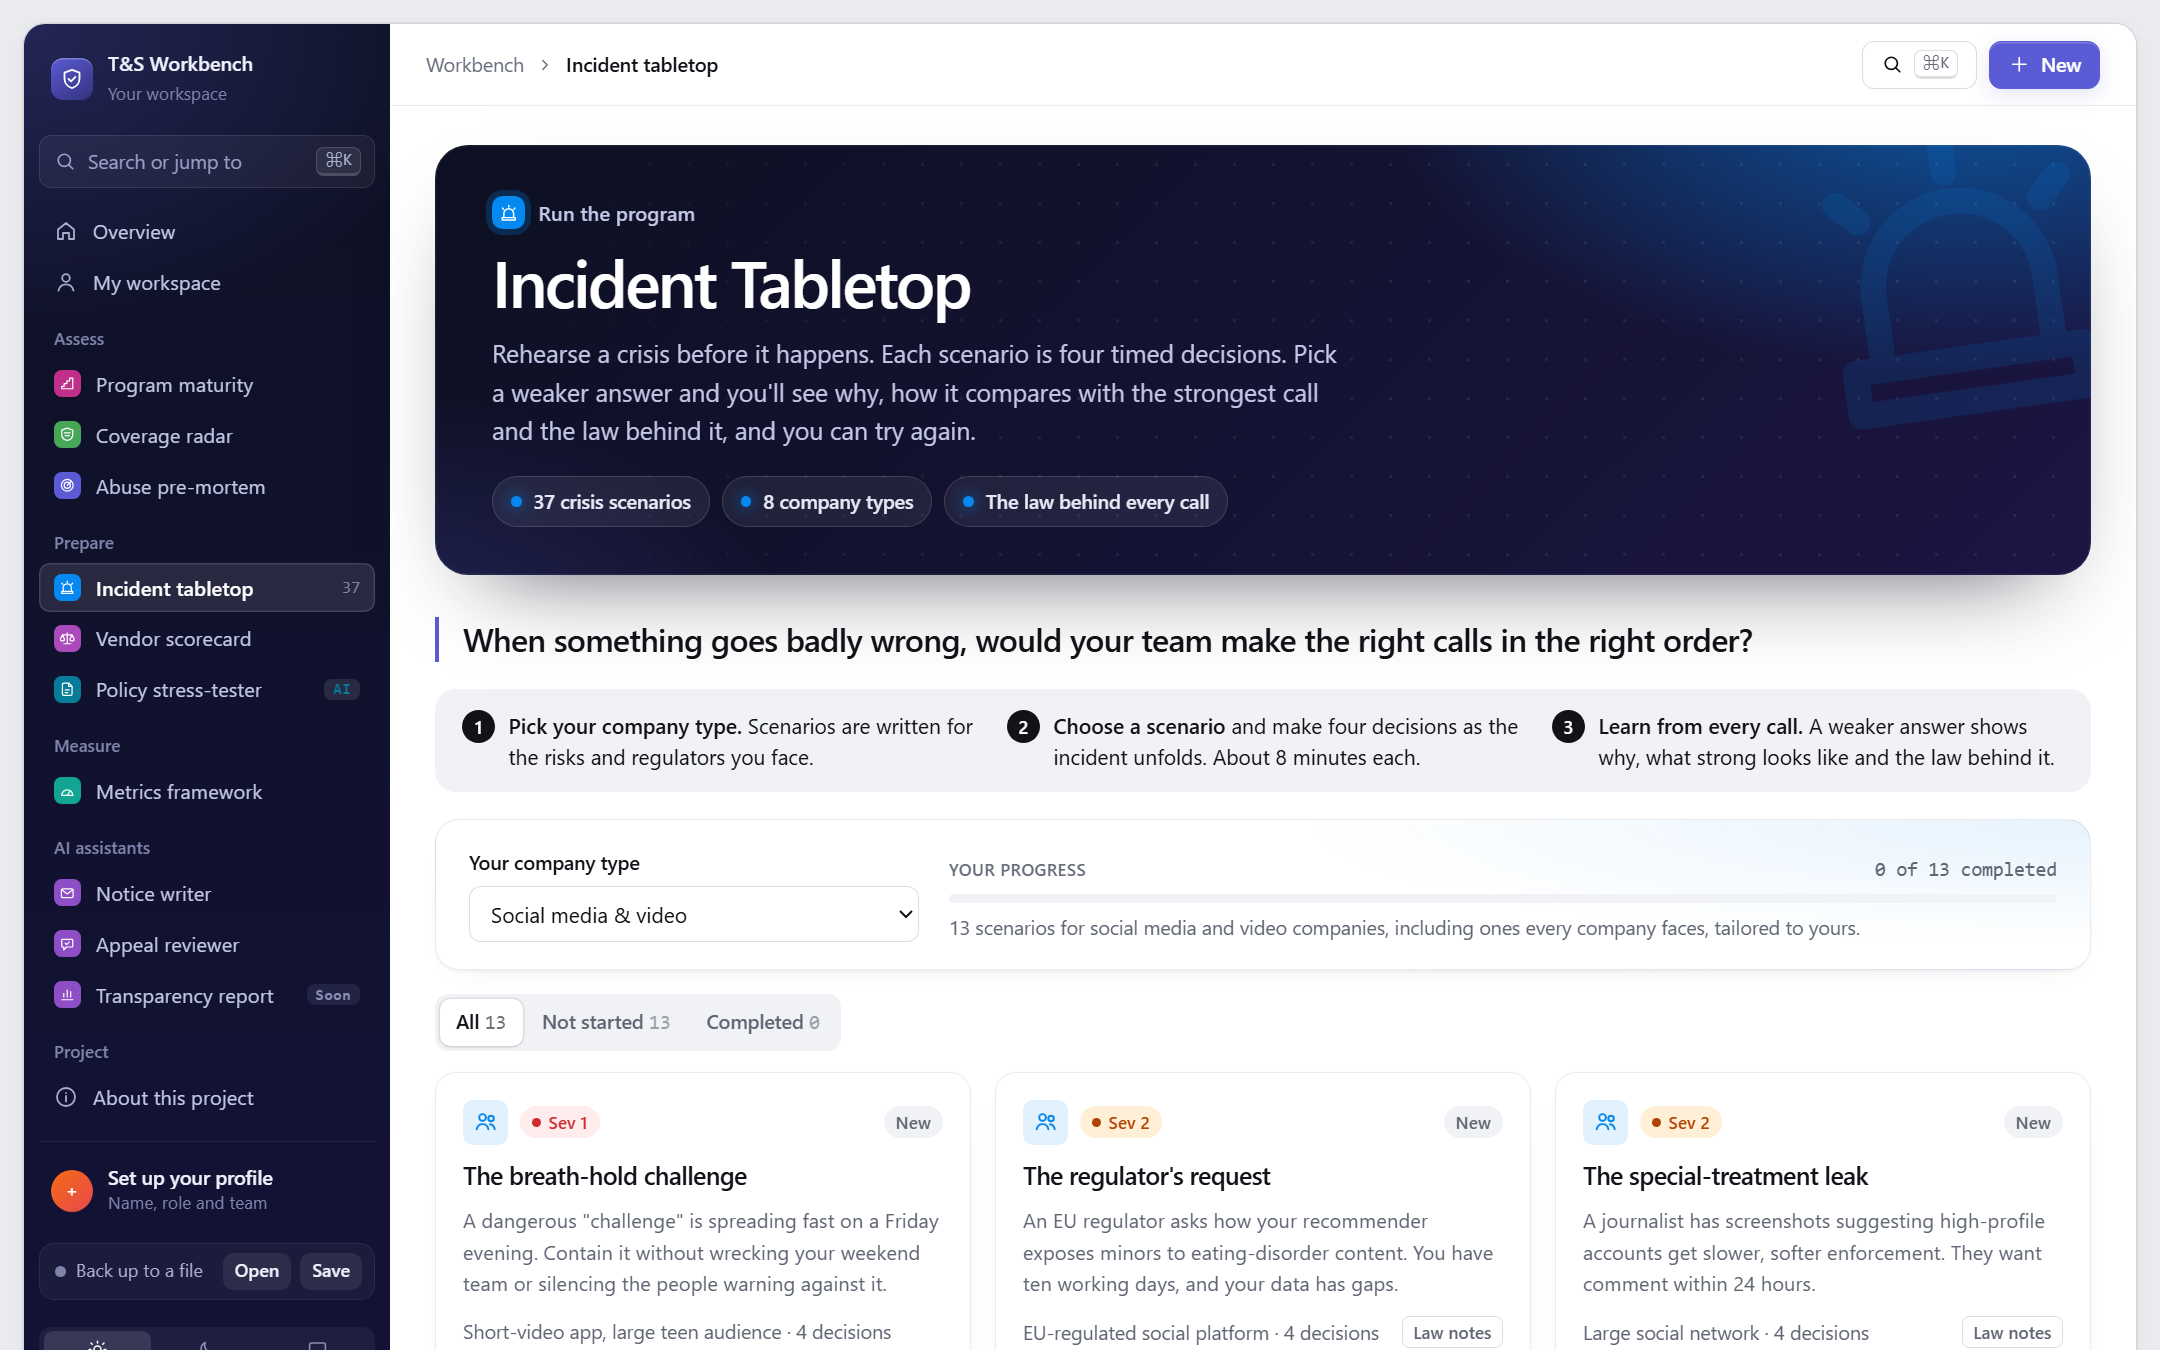
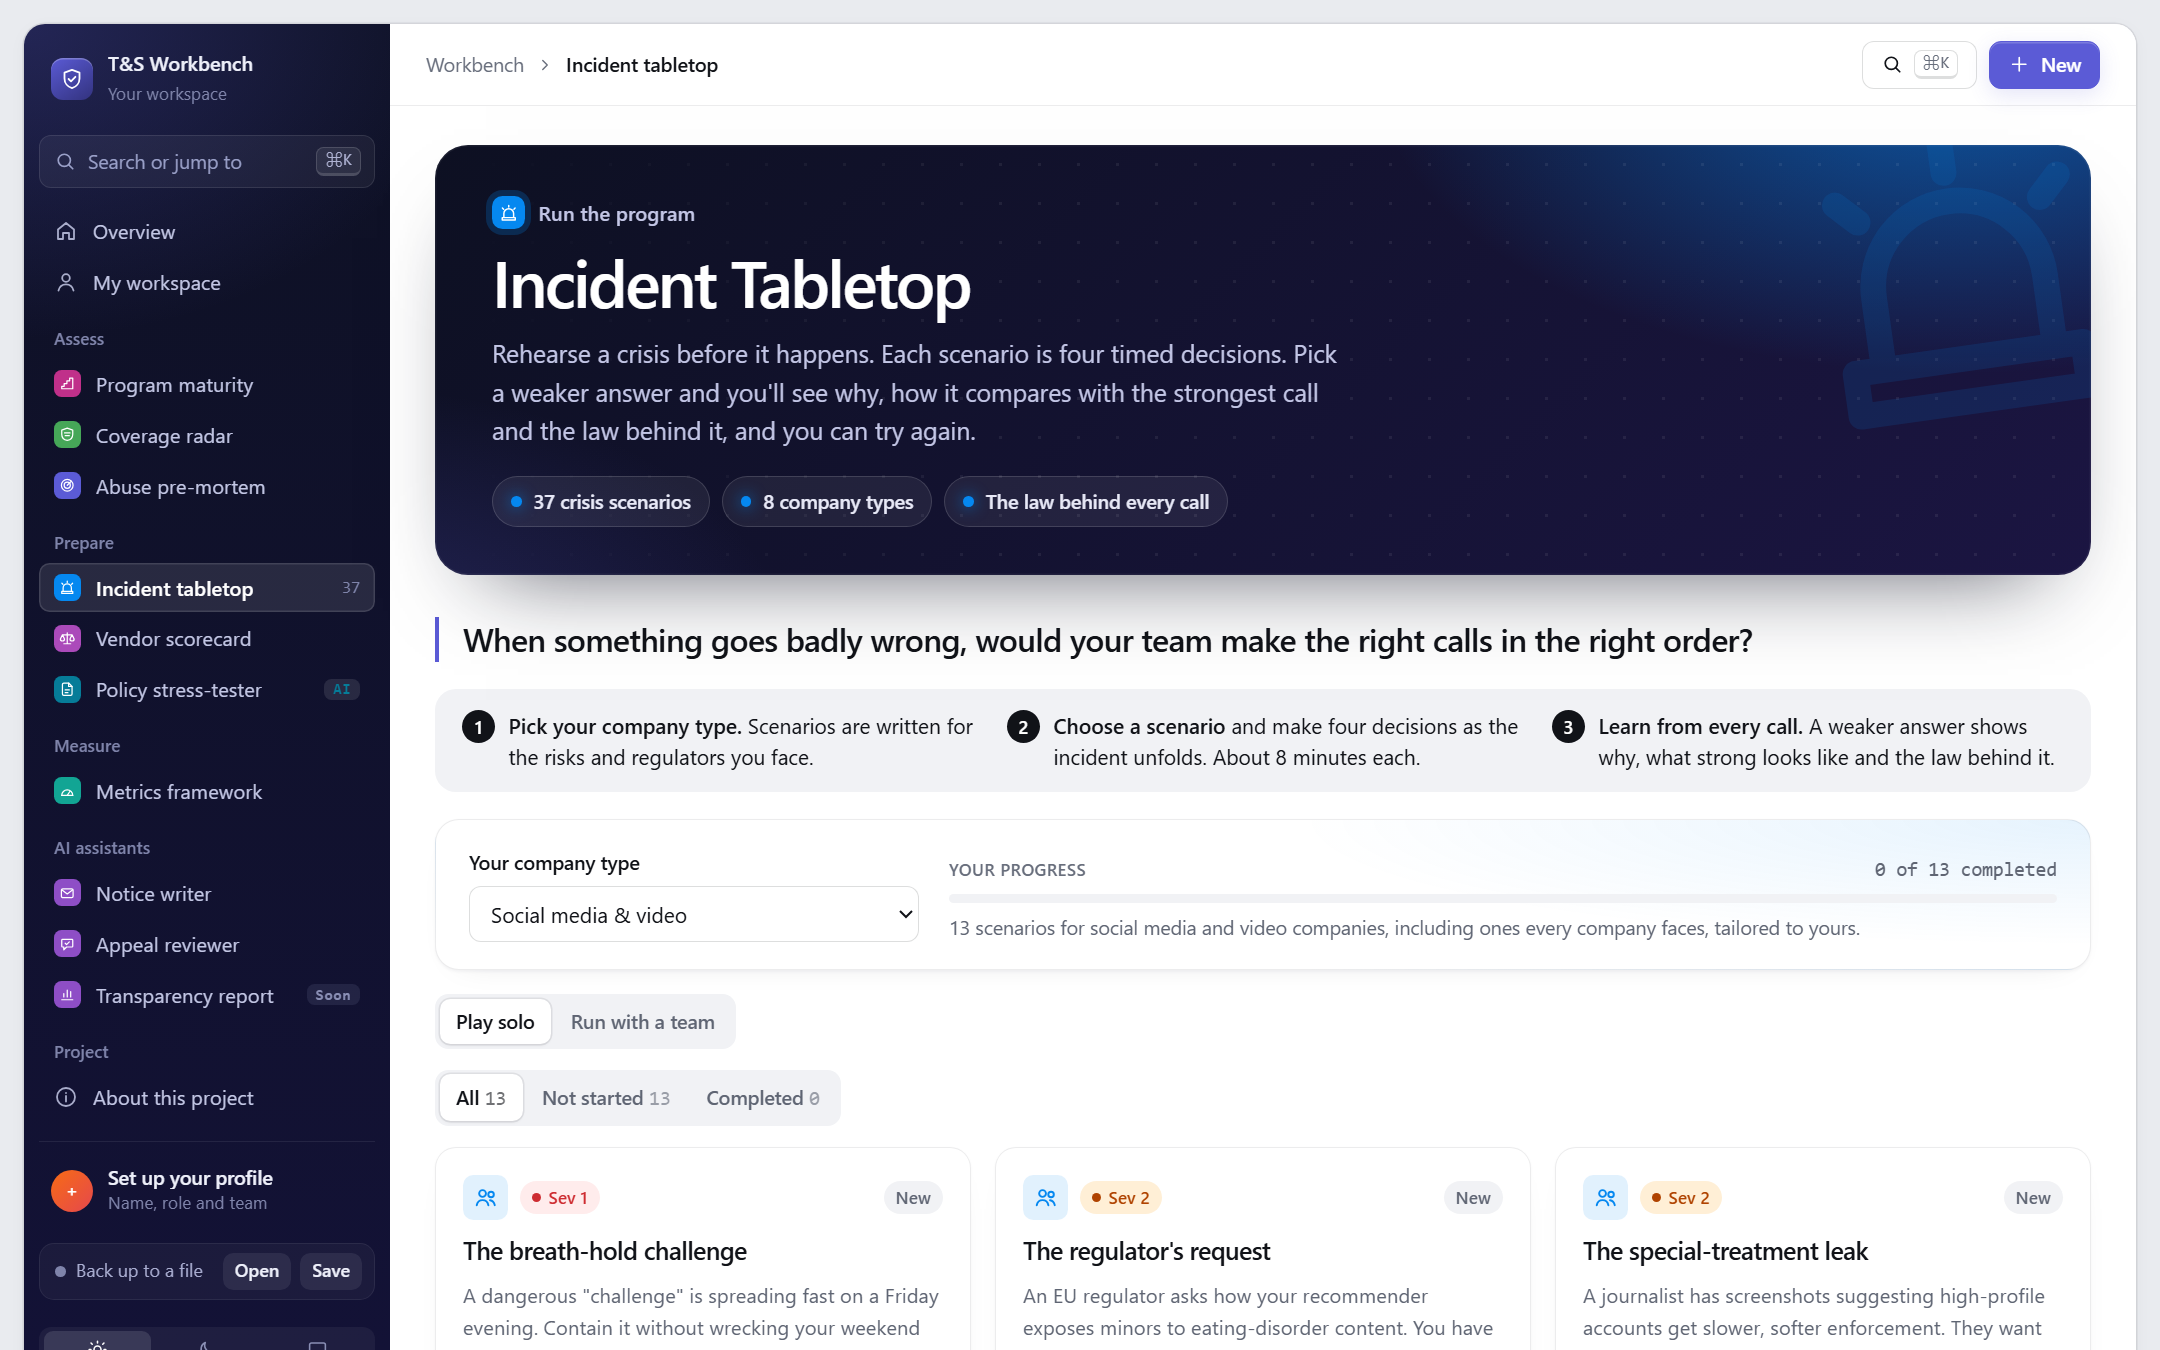
Tabletop team mode: roles, timer, presenter view, after-action report

diff --git a/README.md b/README.md
@@ -2,7 +2,7 @@
 
 > **When something goes badly wrong, would your team make the right calls in the right order?**
 
-37 crisis scenarios across 8 types of company. Make four timed decisions as each incident unfolds. Every weaker choice shows what happens next, what strong incident command looks like, and the law behind it.
+37 crisis scenarios across 8 types of company. Make four timed decisions as each incident unfolds. Every weaker choice shows what happens next, what strong incident command looks like, and the law behind it. Play solo, or run it live with your team: roles, a timer for each decision, discussion prompts, a full-screen presenter view, and an after-action report with owned action items you can send to your tracker.
 
 **[Try it live](https://stevenmacchia.github.io/ts-workbench/#tabletop)** · part of [T&S Workbench](https://github.com/stevenmacchia/ts-workbench) · free, no sign-up
 
@@ -35,6 +35,10 @@ The tool's knowledge, published as open content you can read, reuse and adapt.
 - Interview exercises for T&S roles
 
 ## More screenshots
+
+![tabletop-team](assets/tabletop-team.png)
+
+![tabletop-team-debrief](assets/tabletop-team-debrief.png)
 
 ![tabletop](assets/tabletop.png)
 
